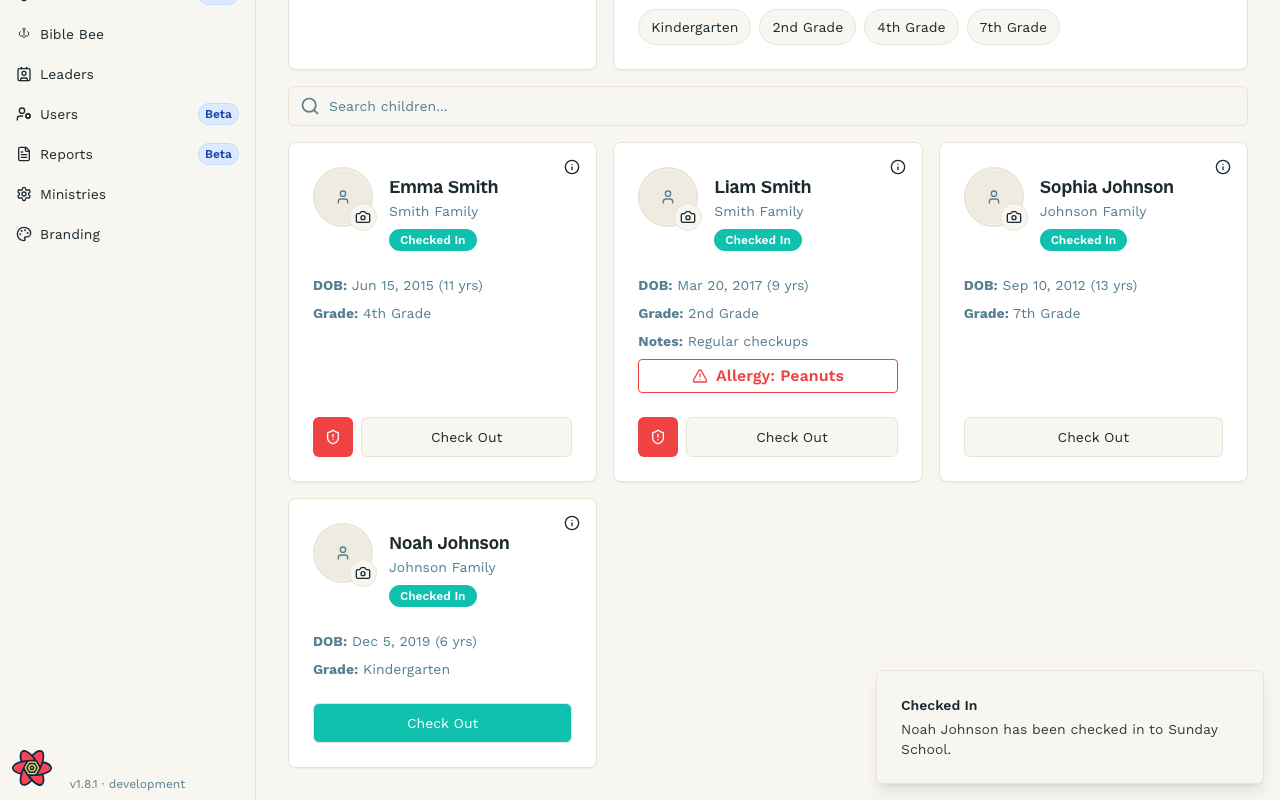
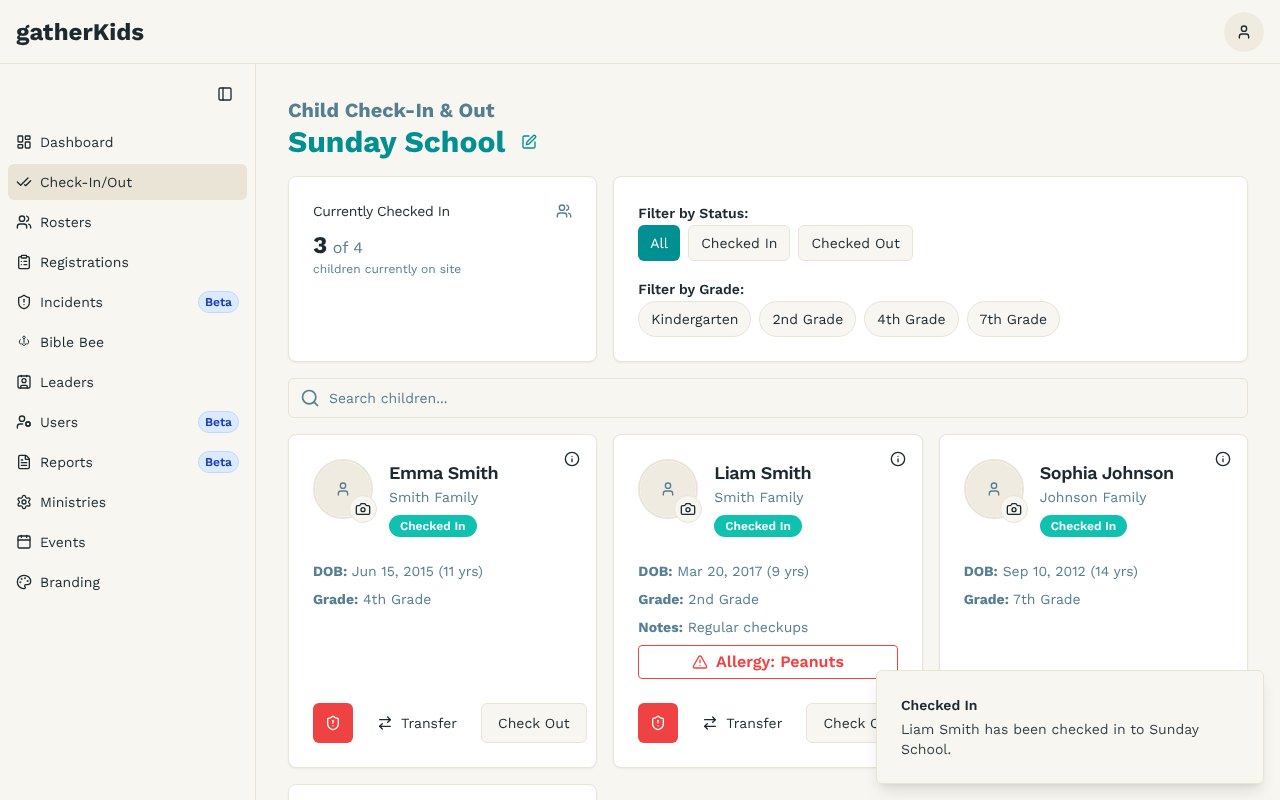
docs(help): rules for when help screenshots are updated, and refresh them
Nothing decided when the in-app guide's screenshots were updated, and
docs:validate only checks that a referenced image exists. They were last
captured on Aug 30 and no longer matched the app.

Rules (docs/HELP_DOCS.md, PR template, pr-evidence and verify-change
skills, CI_CD.md release steps):
- A PR that changes a screen pictured in /help, or adds a guide section for
  a new screen, updates the screenshots or says in the PR why not. A table
  maps each pictured screen to its images and pages.
- While the release-please Release PR is open, refresh the screenshots
  against that main commit and merge any changes first as a
  docs(help): refresh screenshots for vX.Y.Z PR.

Refresh: all 17 screenshots recaptured from local seeded synthetic data,
plus two new ones for sections that had none: check-in-transfer.png
(Transfer dialog) and events-admin.png (Events screen), referenced from the
guide.

Fixes needed to capture at all:
- capture-help-screenshots: put the role in app_metadata too. RLS reads the
  role from there, so the "admin" was a GUEST and staff screens came out
  empty.
- capture-help-screenshots: stop adding translate(-50%,-50%) as a transform
  on dialogs (Tailwind v4 already centres with the translate property),
  which pushed every dialog half off-screen; find the Edit Child first-name
  field by name (its id is generated).
- seed:dev: use the service-role key against a local stack only. With the
[…]

diff --git a/scripts/seed/dev_seed.js b/scripts/seed/dev_seed.js
@@ -32,8 +32,25 @@ const SMITH_HOUSEHOLD = 'Smith Family';
 const JOHNSON_HOUSEHOLD = 'Johnson Family';
 
 // Supabase client setup
+//
+// Since the RLS work (#495) the anon key cannot create registration cycles,
+// ministries and the rest, so seeding with it fails on the first insert.
+// Against a LOCAL stack the seed uses the service-role key when one is set
+// (as `.env.local` from `supabase status` provides). It never uses the
+// service-role key against a non-local URL: that would let a dev seed write
+// past RLS into a shared database.
 const supabaseUrl = process.env.NEXT_PUBLIC_SUPABASE_URL;
-const supabaseKey = process.env.NEXT_PUBLIC_SUPABASE_ANON_KEY;
+const isLocalSupabase = (() => {
+	try {
+		const host = new URL(supabaseUrl).hostname;
+		return host === 'localhost' || host === '127.0.0.1' || host === '::1';
+	} catch {
+		return false;
+	}
+})();
+const supabaseKey =
+	(isLocalSupabase && process.env.SUPABASE_SERVICE_ROLE_KEY) ||
+	process.env.NEXT_PUBLIC_SUPABASE_ANON_KEY;
 
 if (!supabaseUrl || !supabaseKey) {
 	console.error('❌ Missing Supabase environment variables');

diff --git a/docs/HELP_DOCS.md b/docs/HELP_DOCS.md
@@ -30,6 +30,48 @@ Do not hand-edit `doc-site/releases/` (removed). [release-please](https://github
 - Duplicate squash-merge lines are collapsed.
 - Smoke: `npm run help:parse-changelog`
 
+## When screenshots must be updated
+
+Screenshots go stale silently: `npm run docs:validate` only checks that a referenced image exists, not that it still matches the app. Two rules keep them current.
+
+### 1. In the PR that changes the screen
+
+A PR must **update the affected guide screenshots, or say in the PR why not**, when it:
+
+- changes what a screen in the table below looks like or does (a new button, column, dialog, status, or wording), or
+- adds a guide section for a new screen or feature.
+
+"Why not" is a sentence in the PR, for example "layout unchanged; only the toast copy changed" or "screenshot deferred to the release refresh". It is not silence. For a new screen, add a `shot(...)` step to `scripts/capture-help-screenshots.mjs` and reference the image from the new section.
+
+Which screens are pictured (image in `public/help/screenshots/`, used by `content/help/`):
+
+| Screen (route) | Screenshot | Used in |
+|----------------|------------|---------|
+| Landing `/` | `registration-landing.png` | `getting-started.md` |
+| Dashboard `/admin-overview` | `leader-dashboard.png` | `leader-tools/dashboard.md` |
+| Check-in `/check-in` | `check-in-list.png`, `check-in-success.png`, `check-out.png`, `check-in-transfer.png` | `check-in-out/overview.md`, `check-in-process.md`, `check-out-process.md` |
+| Rosters `/rosters` | `leader-roster.png` | `leader-tools/rosters.md` |
+| Incidents `/incidents` | `leader-incidents.png` | `leader-tools/incidents.md` |
+| Events `/events` | `events-admin.png` | `check-in-out/overview.md` |
+| Ministries `/ministries` | `ministry-list.png`, `ministry-enrollment-config.png` | `ministry-management/overview.md`, `configuration.md`, `enrollments.md` |
+| Bible Bee `/bible-bee` | `bible-bee-overview.png`, `bible-bee-progress.png` | `bible-bee/overview.md`, `progress-tracking.md` |
+| Registration `/register` | `registration-household-form.png`, `registration-child-profile.png`, `registration-returning-welcome.png` | `registration/getting-started.md`, `child-profiles.md` |
+| Household `/household` | `household-profile-accordion.png`, `household-edit-child-dialog.png`, `household-bible-bee-progress.png` | `registration/household-management.md`, `child-profiles.md` |
+
+Keep this table in step with the capture script when screenshots are added or removed.
+
+PR review screenshots (the "UI screenshots or recordings" checklist item) are a separate thing: they are evidence for the reviewer, posted on the PR. This rule is about the images committed under `public/help/screenshots/`.
+
+### 2. Before each release
+
+While the release-please **Release PR** is open, and before it is merged:
+
+1. Check out `main` at the commit the Release PR covers, reset and seed the local stack, and run `npm run help:capture-screenshots` (see below).
+2. If any image changed, open a PR titled `docs(help): refresh screenshots for vX.Y.Z` with the new PNGs and the updated `CAPTURE_META.json`. Spot-check every image for PII. The `docs` scope keeps it out of the release notes.
+3. Merge it before the Release PR, so the release ships a guide that matches it. If nothing changed, note "help screenshots: no changes" on the Release PR.
+
+Do not push to the Release PR's own branch; release-please owns it and may rewrite it.
+
 ## Screenshots (Playwright, synthetic data only)
 
 **Capture locally** against seeded local Supabase. Do **not** point the script at production (`gatherkidslive.com`) or at UAT unless UAT was fully reset to synthetic seed data.

diff --git a/.agents/skills/pr-evidence/SKILL.md b/.agents/skills/pr-evidence/SKILL.md
@@ -39,6 +39,7 @@ Copy into the PR (also in [`.github/PULL_REQUEST_TEMPLATE.md`](../../../.github/
 - [ ] Commands run with exact pass/fail results
 - [ ] Relevant unit, integration or E2E coverage added or updated
 - [ ] UI screenshots or recordings attached, or marked not applicable
+- [ ] Help guide screenshots (`public/help/screenshots/`) updated, or the reason they were not is stated, when this changes a screen pictured in `/help` or adds a guide section for a new screen. Otherwise mark not applicable. See [docs/HELP_DOCS.md](../../../docs/HELP_DOCS.md#when-screenshots-must-be-updated).
 - [ ] Accessibility and responsive behaviour checked where applicable
 - [ ] Schema/migration impact documented, or marked none (`Schema change: documented` when `supabase/migrations/` changes; `Schema change: none` otherwise)
 - [ ] Release state named when the diff changes deploy or promotion (`Build complete`, `UAT schema pending`, `UAT verified`, `Production approval pending`, `Production DB verified`, `Production released`). A Vercel build is not `Production released`.

diff --git a/docs/CI_CD.md b/docs/CI_CD.md
@@ -100,6 +100,7 @@ See [`docs/CONTRIBUTING.md`](./CONTRIBUTING.md) and [`commitlint.config.js`](../
 
 1. Conventional commits land on **`main`** via squash merge. That is **Build complete**.
 2. [`release-please.yml`](../.github/workflows/release-please.yml) opens a **Release PR** updating `package.json` + `CHANGELOG.md`.
+   - Before merging it, refresh the in-app help screenshots against that `main` commit and merge any changes as a separate `docs(help): refresh screenshots for vX.Y.Z` PR. See [`docs/HELP_DOCS.md`](./HELP_DOCS.md#2-before-each-release).
 3. Merging the Release PR creates git tag `vX.Y.Z` and a GitHub Release. The tag is the app version, not a database release and not production traffic.
 4. **UAT verified** and **Production released** are separate manual workflows. A green Vercel build does not complete either one.
 

diff --git a/.github/PULL_REQUEST_TEMPLATE.md b/.github/PULL_REQUEST_TEMPLATE.md
@@ -32,6 +32,7 @@ Schema change: none
 - [ ] Commands run with exact pass/fail results
 - [ ] Relevant unit, integration or E2E coverage added or updated
 - [ ] UI screenshots or recordings attached, or marked not applicable
+- [ ] Help guide screenshots (`public/help/screenshots/`) updated, or the reason they were not is stated, when this changes a screen pictured in `/help` or adds a guide section for a new screen. Otherwise mark not applicable. See [docs/HELP_DOCS.md](../docs/HELP_DOCS.md#when-screenshots-must-be-updated).
 - [ ] Accessibility and responsive behaviour checked where applicable
 - [ ] Schema/migration impact documented, or marked none
 - [ ] Release state named if this changes deploy or promotion. A Vercel build is not `Production released`. See [docs/CI_CD.md](../docs/CI_CD.md#release-states).

diff --git a/content/help/user-guide/check-in-out/overview.md b/content/help/user-guide/check-in-out/overview.md
@@ -23,6 +23,8 @@ Select the gathering (for example, Sunday service) before checking children in s
 
 Admins manage the list of events under **Events** in the menu.
 
+![Events screen](/help/screenshots/events-admin.png)
+
 - **Add** an event to make it available for check-in and as a transfer destination straight away.
 - **Rename** an event to change its name everywhere, including on past attendance. The event and its history stay the same.
 - **Archive** an event you no longer run. It disappears from the event pickers and takes no new check-ins, but its history is kept. Any child still checked in to it can be checked out or transferred out as usual. Its door stays available until the last child has left. You can **Restore** an archived event at any time.

diff --git a/content/help/user-guide/check-in-out/check-out-process.md b/content/help/user-guide/check-in-out/check-out-process.md
@@ -26,6 +26,8 @@ When a child who is already checked in needs to go to a different event (for exa
 2. Select **Transfer**.
 3. Choose the event they are moving to and confirm.
 
+![Transfer a child to another event](/help/screenshots/check-in-transfer.png)
+
 The child stays checked in and on site, and their arrival time is kept. A transfer is not a pickup, so no pickup details are recorded. When the family collects the child, check them out from the new event as usual, with the same verification.
 
 Only events set up for check-in can be chosen. That is the same list the event picker on Check-In shows. Transfer is available to admins and ministry leaders.

diff --git a/.agents/skills/verify-change/SKILL.md b/.agents/skills/verify-change/SKILL.md
@@ -106,6 +106,8 @@ db-fk                 CI-only — will run on this PR
 
 Required for user-visible UI changes. Mark **N/A** otherwise.
 
+These are PR evidence. Separately, if the change alters a screen pictured in the in-app guide, or adds a guide section for a new screen, update `public/help/screenshots/` with `npm run help:capture-screenshots` or say in the PR why not. The rule and the table of pictured screens are in [`docs/HELP_DOCS.md`](../../../docs/HELP_DOCS.md#when-screenshots-must-be-updated).
+
 - Synthetic data only.
 - Redact PII if any real data appeared.
 - Note viewport (desktop / mobile) when layout is involved.
